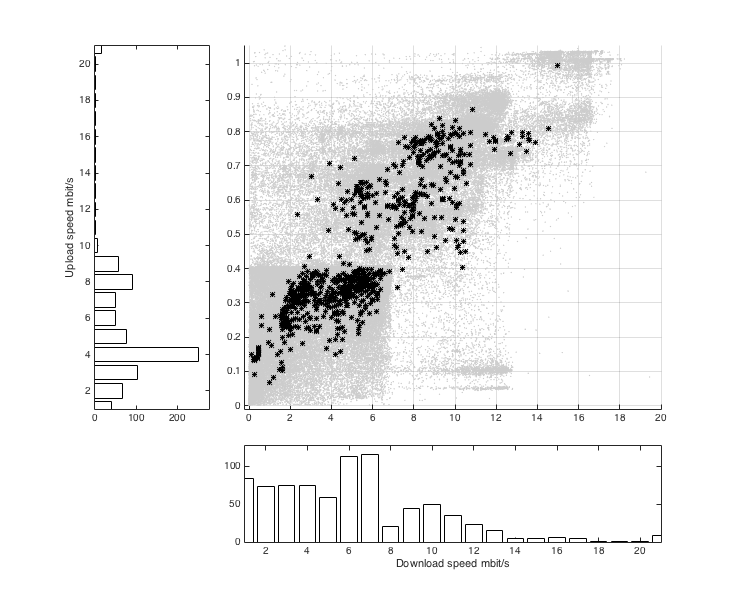
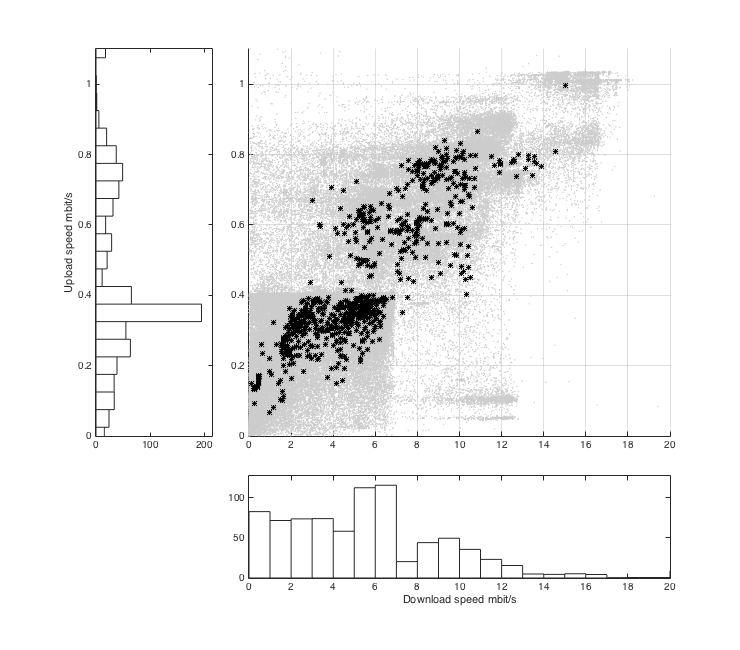
Bug fix

diff --git a/scripts/data_inspection.m b/scripts/data_inspection.m
@@ -1,6 +1,7 @@
 %% Define dataset
 clear all; close all;
 dataset_filename = '../dataset_D1_telecom_20120701_20140630_full.csv';
+%dataset_filename = 'dataset_ita.20120701_20140630.csv';
 
 %% Sanitize
 
@@ -22,17 +23,15 @@ ylabel('Upload speed mbit/s');
 maxval_dw = max(T.download_speed_mbits);
 %edges = [ 0 1 2 3 4 5 6 7.1 8.5 10.3 12.6 15.6 19.4 24.0 30.0 37.6 47.3 59.6 75.2 95.0 120.1 maxval ];
 edges_dw_telecomitalia = [0:20];
-size(edges_dw_telecomitalia)
-size(ceil(maxval_dw))
-edges_dw = [ edges_dw_telecomitalia ceil(maxval_dw) ]
+edges_dw = [ edges_dw_telecomitalia ceil(maxval_dw) ];
 
 [hists_dw stats_dw kk_dw] = dataset_to_histograms(T, 'id_sub', 'download_speed_mbits', edges_dw, 50);
 
 
 maxval_up = max(T.upload_speed_mbits);
 %edges = [ 0 1 2 3 4 5 6 7.1 8.5 10.3 12.6 15.6 19.4 24.0 30.0 37.6 47.3 59.6 75.2 95.0 120.1 maxval ];
-edges_up_telecomitalia = [0:.1:1.1];
-edges_up = [ edges_up_telecomitalia ceil(maxval_up) ]
+edges_up_telecomitalia = [0:.05:1.1];
+edges_up = [ edges_up_telecomitalia ceil(maxval_up) ];
 
 [hists_up stats_up kk_up] = dataset_to_histograms(T, 'id_sub', 'upload_speed_mbits', edges_up, 50);
 
